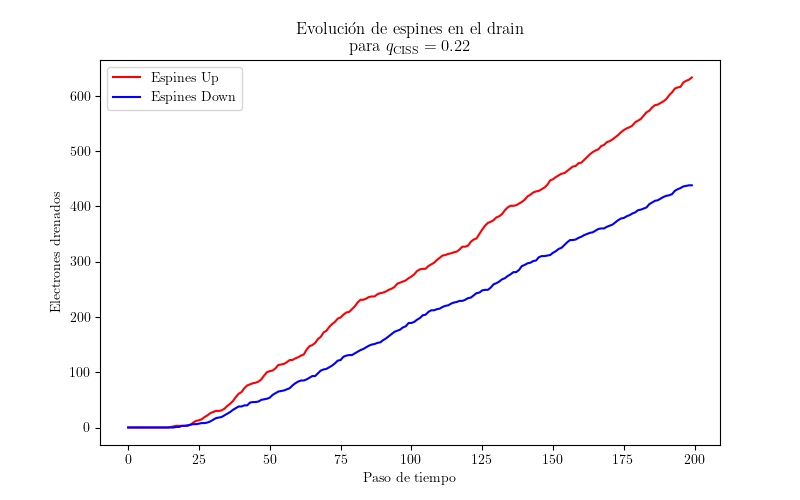
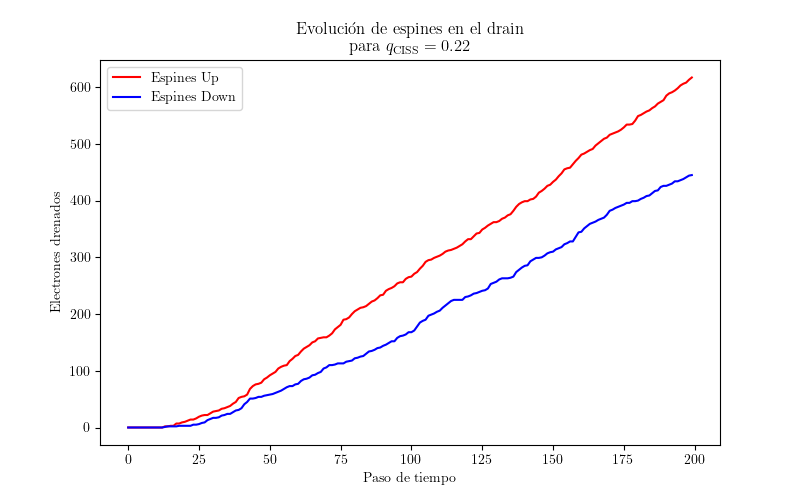
Nueva versión animación ciss

diff --git a/Scripts/animacion_ciss.py b/Scripts/animacion_ciss.py
@@ -11,7 +11,7 @@ rc("font", family="serif")
 
 # Parámetros de la simulación
 N_electrones = 500  # Número total de electrones
-N_pasos = 200  # Número de iteraciones de Monte Carlo
+N_pasos = 100  # Número de iteraciones de Monte Carlo
 N_moleculas = N_electrones
 D = 1    # Coeficiente de difusión
 T = 300  # Temperatura en Kelvin
